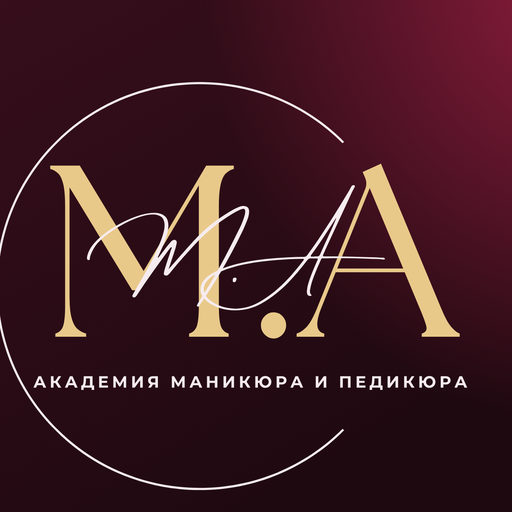
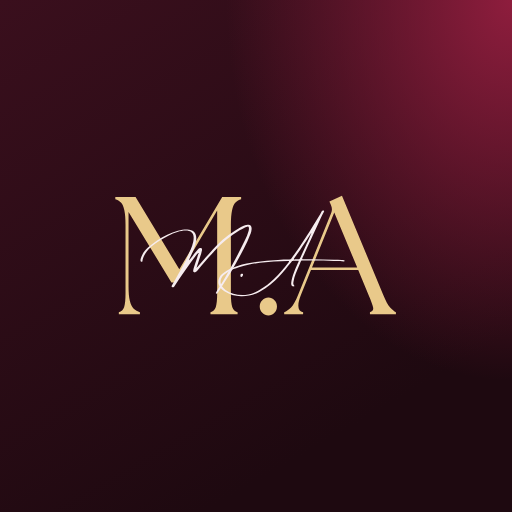
М.А: новая иконка сайта — буквы М.А по центру без обводки, с запасом под круглые и скруглённые значки
Claude-Session: https://claude.ai/code/session_01NzJw3HFXq1qCV6Umuh7W6a

diff --git a/demos/monro-beauty/index.html b/demos/monro-beauty/index.html
@@ -3,7 +3,7 @@
 <meta name="robots" content="noindex">
 <meta name="description" content="Маникюр, педикюр и обучение маникюру в Михайловке. Мастер Марина Шевченко, 10 лет опыта. Онлайн-запись, очное обучение.">
 <script type="application/ld+json">{"@context":"https://schema.org","@type":"BeautySalon","name":"М.А — академия маникюра и педикюра","description":"Маникюр, педикюр, наращивание и обучение маникюру","telephone":"+7 995 428-47-88","priceRange":"от 300 ₽","address":{"@type":"PostalAddress","streetAddress":"ул. Обороны, 41","addressLocality":"Михайловка","addressRegion":"Волгоградская область","addressCountry":"RU"},"openingHoursSpecification":[{"@type":"OpeningHoursSpecification","dayOfWeek":["Monday","Tuesday","Wednesday","Thursday","Friday"],"opens":"10:00","closes":"19:00"}],"founder":{"@type":"Person","name":"Марина Шевченко"}}</script>
-<link rel="manifest" href="manifest.json"><link rel="icon" href="img/app-192.png"><link rel="apple-touch-icon" href="img/app-180.png"><meta name="theme-color" content="#2a0f16"><meta name="apple-mobile-web-app-title" content="М.А">
+<link rel="manifest" href="manifest.json?v=2"><link rel="icon" type="image/png" sizes="48x48" href="img/fav-48.png?v=2"><link rel="icon" type="image/png" sizes="192x192" href="img/app-192.png?v=2"><link rel="apple-touch-icon" href="img/app-180.png?v=2"><meta name="theme-color" content="#2a0f16"><meta name="apple-mobile-web-app-title" content="М.А">
 <link rel="preload" href="fonts/manrope-cyrillic.woff2" as="font" type="font/woff2" crossorigin>
 <link rel="preload" href="fonts/tenorsans-cyrillic.woff2" as="font" type="font/woff2" crossorigin>
 <script>/* открыта ссылка на раздел (кабинет, запись…) — не показывать главную, пока скрипт не переключит страницу */

diff --git a/docs/monro/index.html b/docs/monro/index.html
@@ -6,7 +6,7 @@
 
 <meta name="description" content="Маникюр, педикюр и обучение маникюру в Михайловке. Мастер Марина Шевченко, 10 лет опыта. Онлайн-запись, очное обучение.">
 <script type="application/ld+json">{"@context":"https://schema.org","@type":"BeautySalon","name":"М.А — академия маникюра и педикюра","description":"Маникюр, педикюр, наращивание и обучение маникюру","telephone":"+7 995 428-47-88","priceRange":"от 300 ₽","address":{"@type":"PostalAddress","streetAddress":"ул. Обороны, 41","addressLocality":"Михайловка","addressRegion":"Волгоградская область","addressCountry":"RU"},"openingHoursSpecification":[{"@type":"OpeningHoursSpecification","dayOfWeek":["Monday","Tuesday","Wednesday","Thursday","Friday"],"opens":"10:00","closes":"19:00"}],"founder":{"@type":"Person","name":"Марина Шевченко"}}</script>
-<link rel="manifest" href="manifest.json"><link rel="icon" href="img/app-192.png"><link rel="apple-touch-icon" href="img/app-180.png"><meta name="theme-color" content="#2a0f16"><meta name="apple-mobile-web-app-title" content="М.А">
+<link rel="manifest" href="manifest.json?v=2"><link rel="icon" type="image/png" sizes="48x48" href="img/fav-48.png?v=2"><link rel="icon" type="image/png" sizes="192x192" href="img/app-192.png?v=2"><link rel="apple-touch-icon" href="img/app-180.png?v=2"><meta name="theme-color" content="#2a0f16"><meta name="apple-mobile-web-app-title" content="М.А">
 <link rel="preload" href="fonts/manrope-cyrillic.woff2" as="font" type="font/woff2" crossorigin>
 <link rel="preload" href="fonts/tenorsans-cyrillic.woff2" as="font" type="font/woff2" crossorigin>
 <script>/* открыта ссылка на раздел (кабинет, запись…) — не показывать главную, пока скрипт не переключит страницу */
